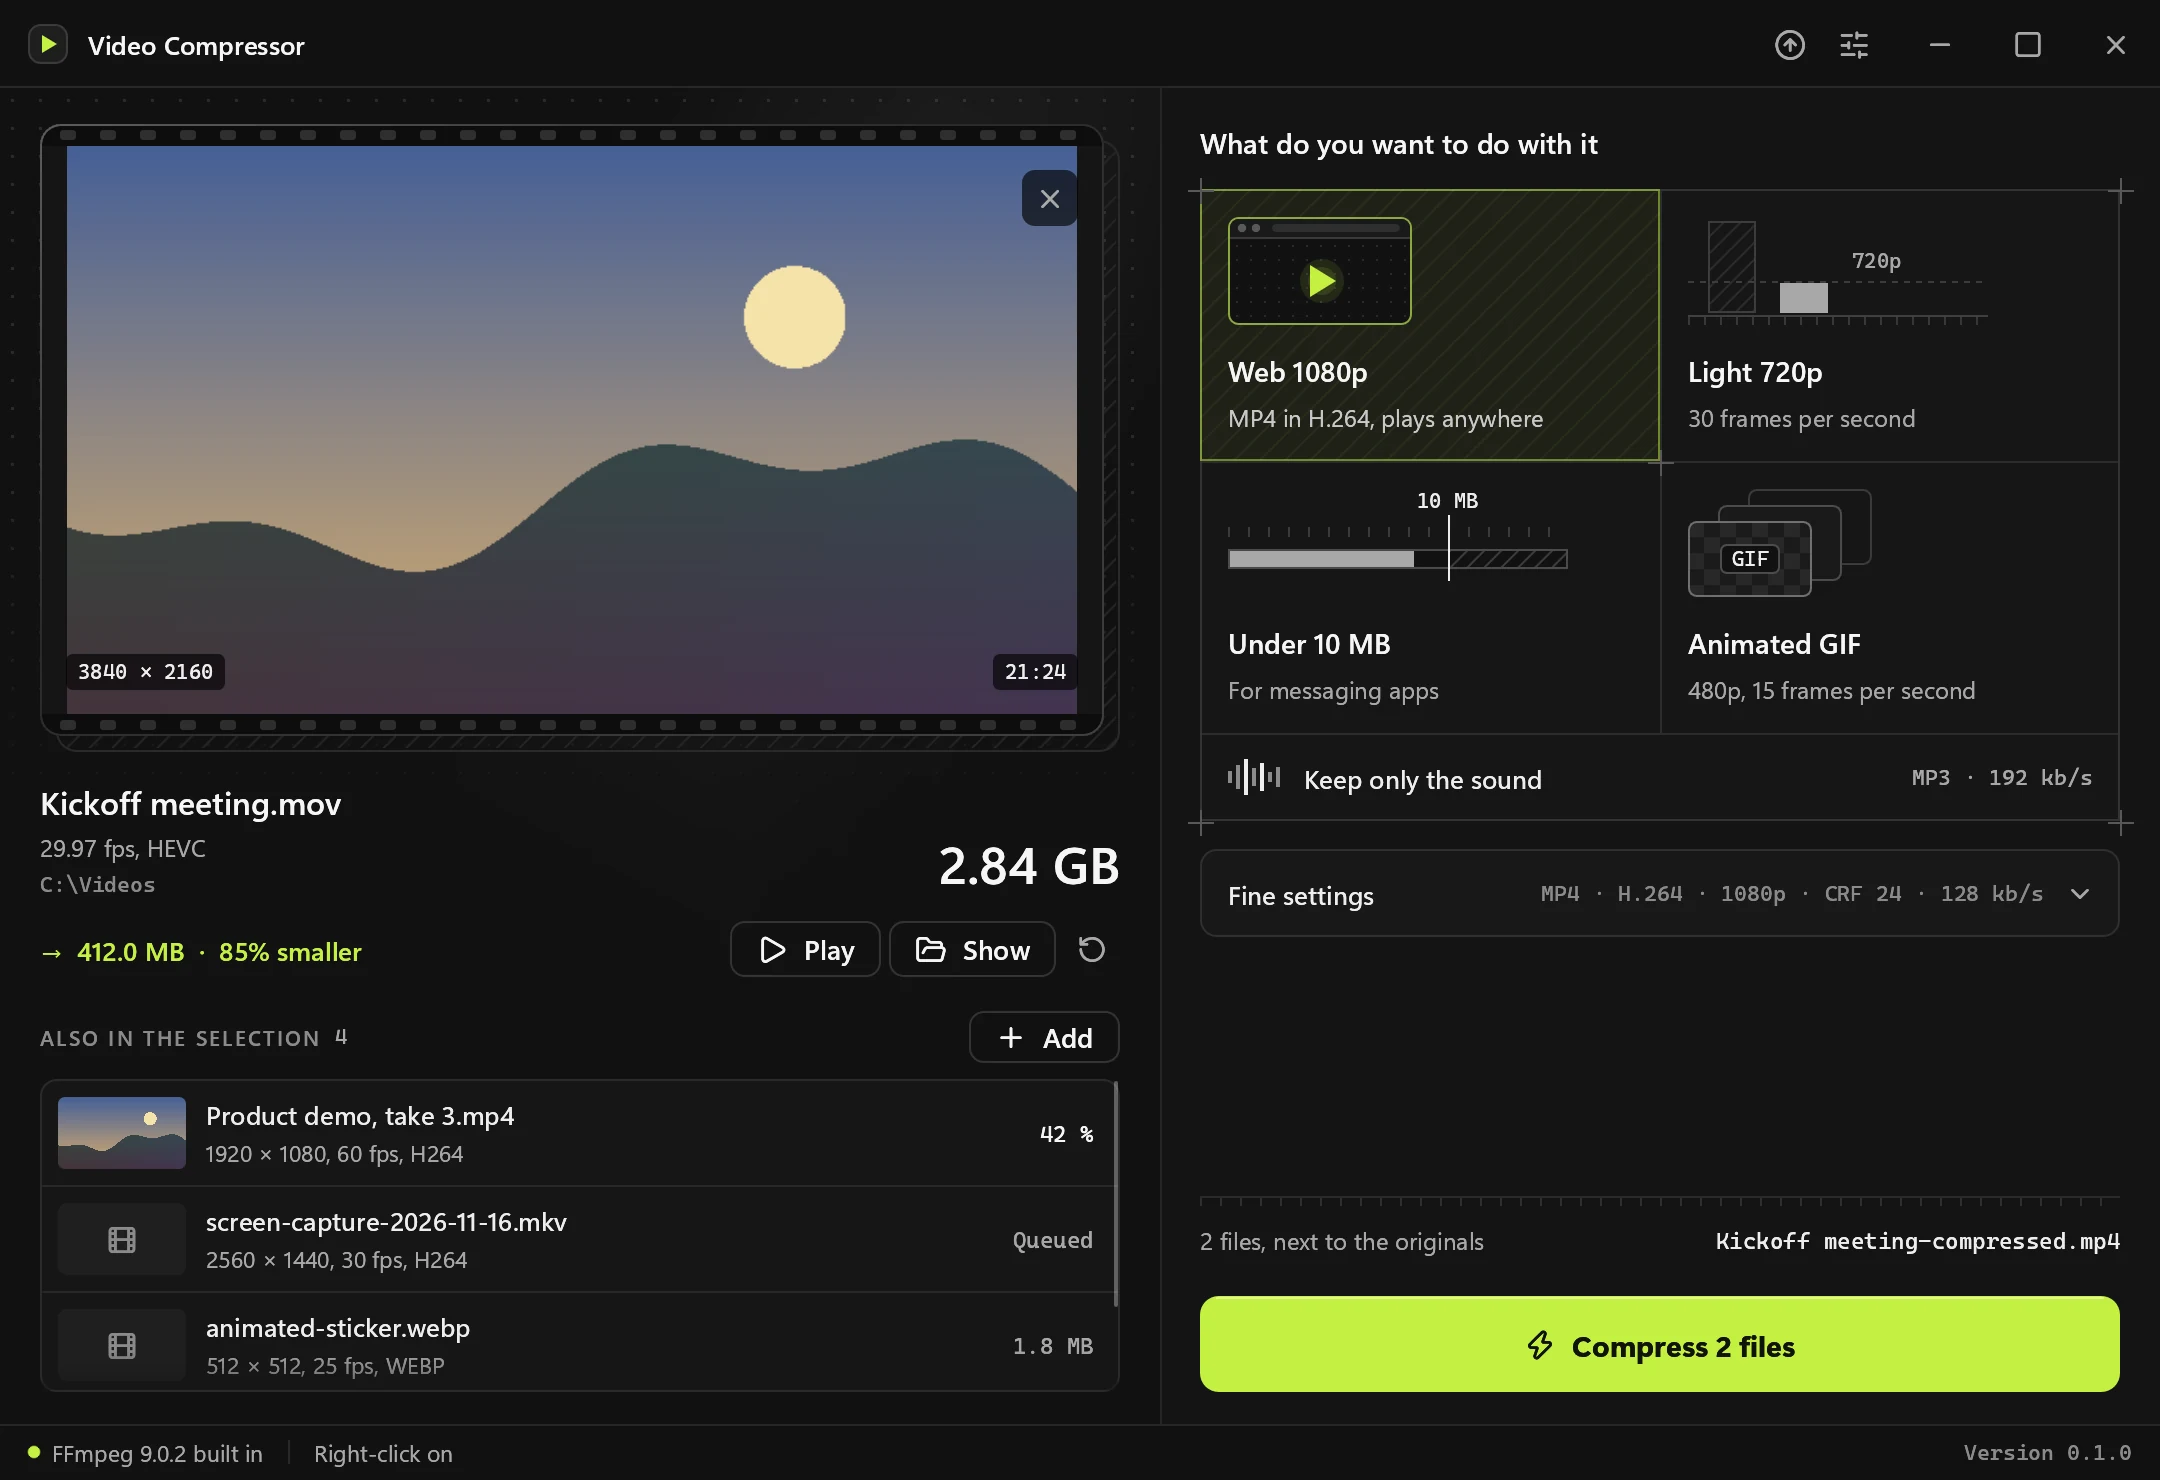
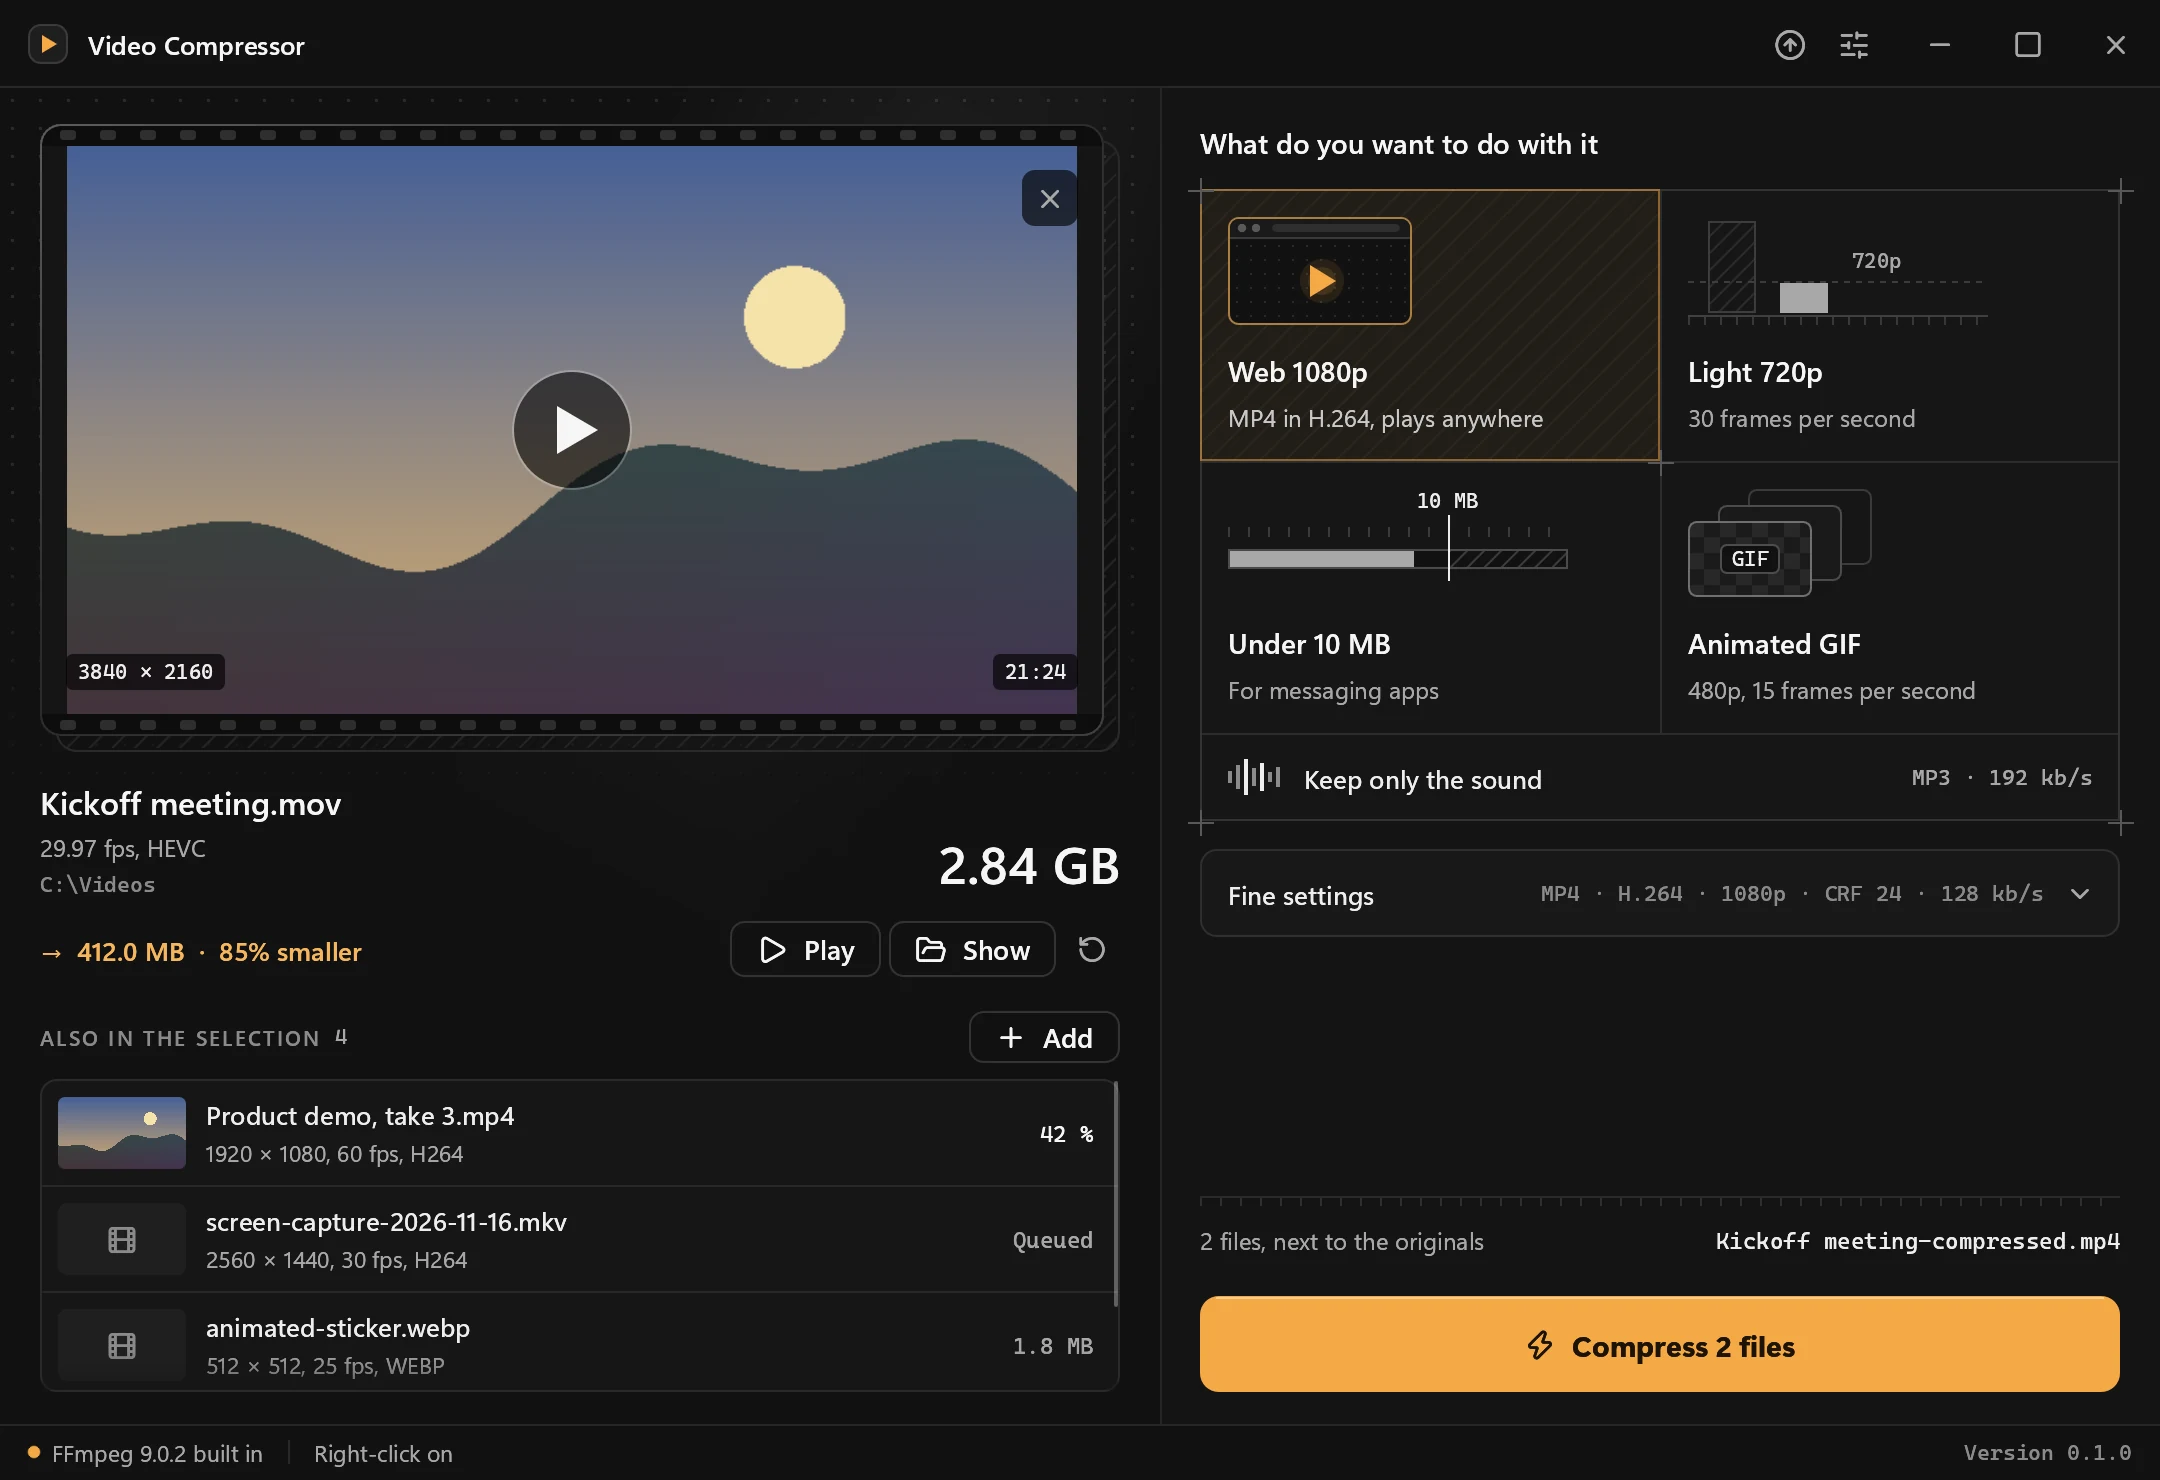
Passer le site dans les teintes ambre de l'application
Gris neutres et accent ambre, à la place du fond verdi et du citron. Les
captures du site et l'en-tête du README sont rendus avec l'accent ambre, et
l'icône du site prend le même ton. Les captures montrent le lecteur de l'aperçu.

diff --git a/landing/index.html b/landing/index.html
@@ -11,7 +11,7 @@
     <link rel="icon" href="./icon.svg" />
     <link rel="apple-touch-icon" href="./icon/128.png" />
     <link rel="canonical" href="https://djdevpro.github.io/video-compressor/" />
-    <meta name="theme-color" content="#0c0e0a" />
+    <meta name="theme-color" content="#111110" />
     <meta name="author" content="Youcef Djidjelli" />
 
     <meta property="og:type" content="website" />
@@ -45,14 +45,14 @@
     </script>
     <style>
       :root {
-        --bg: #0c0e0a;
-        --text: #eef1e7;
-        --muted: #a2a995;
-        --faint: #70766a;
-        --accent: #a9d62e;
-        --accent-2: #b9e33c;
-        --accent-3: #c4f042;
-        --line: rgba(196, 240, 66, 0.14);
+        --bg: #111110;
+        --text: #efede8;
+        --muted: #a8a49b;
+        --faint: #78746b;
+        --accent: #e89c39;
+        --accent-2: #f4a945;
+        --accent-3: #ffbb62;
+        --line: rgba(244, 169, 69, 0.14);
       }
 
       * {
@@ -68,9 +68,9 @@
         font: 16px/1.6 system-ui, -apple-system, 'Segoe UI', sans-serif;
         color: var(--text);
         background:
-          radial-gradient(55% 42% at 50% -4%, rgba(169, 214, 46, 0.2), transparent 70%),
-          radial-gradient(40% 34% at 88% 28%, rgba(185, 227, 60, 0.06), transparent 70%),
-          radial-gradient(46% 36% at 8% 76%, rgba(169, 214, 46, 0.06), transparent 70%),
+          radial-gradient(55% 42% at 50% -4%, rgba(244, 169, 69, 0.17), transparent 70%),
+          radial-gradient(40% 34% at 88% 28%, rgba(244, 169, 69, 0.06), transparent 70%),
+          radial-gradient(46% 36% at 8% 76%, rgba(244, 169, 69, 0.06), transparent 70%),
           var(--bg);
         min-height: 100vh;
       }
@@ -103,7 +103,7 @@
         height: 84px;
         margin: 0 auto 26px;
         display: block;
-        filter: drop-shadow(0 0 28px rgba(196, 240, 66, 0.3)) drop-shadow(0 6px 18px rgba(0, 0, 0, 0.5));
+        filter: drop-shadow(0 0 28px rgba(244, 169, 69, 0.3)) drop-shadow(0 6px 18px rgba(0, 0, 0, 0.5));
       }
 
       h1 {
@@ -157,7 +157,7 @@
         text-decoration: none;
         color: var(--text);
         background: linear-gradient(180deg, rgba(255, 255, 255, 0.07), rgba(255, 255, 255, 0.02));
-        border: 1px solid rgba(196, 240, 66, 0.22);
+        border: 1px solid rgba(244, 169, 69, 0.22);
         box-shadow:
           inset 0 1px 0 rgba(255, 255, 255, 0.07),
           0 1px 2px rgba(0, 0, 0, 0.3),
@@ -167,17 +167,17 @@
 
       .btn:hover {
         transform: translateY(-1px);
-        border-color: rgba(196, 240, 66, 0.4);
+        border-color: rgba(244, 169, 69, 0.4);
       }
 
       .btn.primary {
-        background: linear-gradient(180deg, #d0f55c, #b0dc33);
+        background: linear-gradient(180deg, #ffc071, #ee9f38);
         border: 1px solid rgba(255, 255, 255, 0.35);
-        color: #10130a;
+        color: #1d1407;
         box-shadow:
           inset 0 1px 0 rgba(255, 255, 255, 0.45),
           0 1px 2px rgba(0, 0, 0, 0.35),
-          0 10px 32px -8px rgba(169, 214, 46, 0.5);
+          0 10px 32px -8px rgba(244, 169, 69, 0.5);
       }
 
       .btn svg {
@@ -195,13 +195,13 @@
         /* gradient border: 1px padding + inner surface */
         padding: 1px;
         border-radius: 18px;
-        background: linear-gradient(180deg, rgba(196, 240, 66, 0.38), rgba(196, 240, 66, 0.05) 55%, rgba(196, 240, 66, 0.12));
+        background: linear-gradient(180deg, rgba(244, 169, 69, 0.38), rgba(244, 169, 69, 0.05) 55%, rgba(244, 169, 69, 0.12));
         box-shadow:
           0 0 0 1px rgba(0, 0, 0, 0.4),
           0 2px 4px rgba(0, 0, 0, 0.3),
           0 12px 24px -8px rgba(0, 0, 0, 0.5),
           0 32px 80px -16px rgba(0, 0, 0, 0.6),
-          0 0 120px -24px rgba(169, 214, 46, 0.32);
+          0 0 120px -24px rgba(244, 169, 69, 0.32);
       }
 
       .frame-inner {
@@ -241,13 +241,13 @@
 
       .view:hover {
         color: var(--text);
-        border-color: rgba(196, 240, 66, 0.3);
+        border-color: rgba(244, 169, 69, 0.3);
       }
 
       .view[aria-pressed='true'] {
         color: var(--accent-3);
-        background: rgba(185, 227, 60, 0.1);
-        border-color: rgba(185, 227, 60, 0.38);
+        background: rgba(244, 169, 69, 0.1);
+        border-color: rgba(244, 169, 69, 0.38);
       }
 
       .live-hint {
@@ -328,7 +328,7 @@
         flex: none;
         padding: 1px;
         border-radius: 14px;
-        background: rgba(196, 240, 66, 0.1);
+        background: rgba(244, 169, 69, 0.1);
         overflow: hidden;
         transition: transform 0.25s ease, box-shadow 0.25s ease;
       }
@@ -340,8 +340,8 @@
         background: conic-gradient(
           from var(--spin),
           transparent 0deg,
-          rgba(185, 227, 60, 0.5) 38deg,
-          rgba(196, 240, 66, 0.14) 80deg,
+          rgba(244, 169, 69, 0.5) 38deg,
+          rgba(244, 169, 69, 0.14) 80deg,
           transparent 130deg
         );
         opacity: 0.65;
@@ -365,7 +365,7 @@
         transform: translateY(-4px);
         box-shadow:
           0 6px 16px -8px rgba(0, 0, 0, 0.6),
-          0 22px 48px -16px rgba(169, 214, 46, 0.32);
+          0 22px 48px -16px rgba(244, 169, 69, 0.32);
       }
 
       .card:hover::before {
@@ -377,7 +377,7 @@
         height: 100%;
         border-radius: 13px;
         padding: 18px 18px 16px;
-        background: linear-gradient(180deg, #14170f, #0f120b);
+        background: linear-gradient(180deg, #181715, #121110);
         box-shadow: inset 0 1px 0 rgba(255, 255, 255, 0.03);
       }
 
@@ -393,8 +393,8 @@
         font-family: ui-monospace, Consolas, monospace;
         font-size: 12px;
         color: var(--accent-3);
-        background: rgba(185, 227, 60, 0.12);
-        border: 1px solid rgba(185, 227, 60, 0.25);
+        background: rgba(244, 169, 69, 0.12);
+        border: 1px solid rgba(244, 169, 69, 0.25);
         border-radius: 6px;
         padding: 2px 7px;
         white-space: nowrap;
@@ -429,7 +429,7 @@
         align-items: center;
         justify-content: center;
         border-radius: 50%;
-        background: rgba(185, 227, 60, 0.16);
+        background: rgba(244, 169, 69, 0.16);
         color: var(--accent-3);
         font-size: 12.5px;
         font-weight: 700;

diff --git a/scripts/landing-shots.py b/scripts/landing-shots.py
@@ -7,7 +7,6 @@ cadre, l'image de partage `og.jpg`, l'icône, et l'image d'en-tête du README.
 Usage : cargo test captures_du_site -- --ignored && python scripts/landing-shots.py   (demande Pillow)
 """
 import os
-import shutil
 
 from PIL import Image, ImageDraw, ImageFilter
 
@@ -23,7 +22,7 @@ for view in VIEWS:
     shot = Image.open(os.path.join(CAPTURES, f"site-en-{view}.png")).convert("RGB")
     shot.save(os.path.join(LANDING, "shots", f"{view}.webp"), quality=88, method=6)
 
-BG, GLOW, LINE = (12, 14, 10), (169, 214, 46), (196, 240, 66)
+BG, GLOW, LINE = (17, 17, 16), (244, 169, 69), (244, 169, 69)
 
 
 def stage(capture, size, width, top):
@@ -56,6 +55,24 @@ stage("site-en-choix.png", (2400, 1260), 1840, 150).save(os.path.join(LANDING, "
 os.makedirs(os.path.join(ROOT, ".github", "assets"), exist_ok=True)
 stage("site-fr-choix.png", (2400, 1560), 1840, 150).save(os.path.join(ROOT, ".github", "assets", "hero.jpg"), quality=88, optimize=True, progressive=True)
 
-shutil.copyfile(os.path.join(ROOT, "assets", "icon.svg"), os.path.join(LANDING, "icon.svg"))
-Image.open(os.path.join(ROOT, "assets", "icon.png")).resize((128, 128), Image.LANCZOS).save(os.path.join(LANDING, "icon", "128.png"), optimize=True)
+# L'icône du site : celle de l'application, son triangle de lecture passé à l'ambre du site.
+LIME, AMBER = ("#d4f76c", "#a9d62e"), ("#ffbb62", "#ee9f38")
+svg = open(os.path.join(ROOT, "assets", "icon.svg"), encoding="utf-8").read()
+for lime, amber in zip(LIME, AMBER):
+    assert lime in svg, f"couleur {lime} absente de l'icône"
+    svg = svg.replace(lime, amber)
+open(os.path.join(LANDING, "icon.svg"), "w", encoding="utf-8", newline="\n").write(svg)
+
+icon = Image.open(os.path.join(ROOT, "assets", "icon.png")).convert("RGBA")
+top, bottom = [tuple(int(c[i:i + 2], 16) for i in (1, 3, 5)) for c in AMBER]
+pixels = icon.load()
+for y in range(icon.height):
+    k = y / max(icon.height - 1, 1)
+    for x in range(icon.width):
+        r, g, b, a = pixels[x, y]
+        # Le triangle est le seul vert de l'icône : il prend le dégradé ambre, à la même force.
+        if g - b > 50 and g > r:
+            force = min((g - b) / 150, 1.0)
+            pixels[x, y] = tuple(round((top[i] * (1 - k) + bottom[i] * k) * force + (r, g, b)[i] * (1 - force)) for i in range(3)) + (a,)
+icon.resize((128, 128), Image.LANCZOS).save(os.path.join(LANDING, "icon", "128.png"), optimize=True)
 print("ok")

diff --git a/src/tests.rs b/src/tests.rs
@@ -262,6 +262,8 @@ fn captures_du_site() {
         crate::i18n::set(lang);
         let mut h = harness_scaled(NORMAL, 2.0);
         fill(h.state_mut());
+        // Le site est dans les teintes ambre : ses captures aussi.
+        h.state_mut().settings.accent = crate::theme::Accent::Amber;
         if lang == Lang::En {
             let names = ["Kickoff meeting.mov", "Product demo, take 3.mp4", "screen-capture-2026-11-16.mkv", "animated-sticker.webp", "old-camcorder.avi"];
             for (item, name) in h.state_mut().items.iter_mut().zip(names) {
